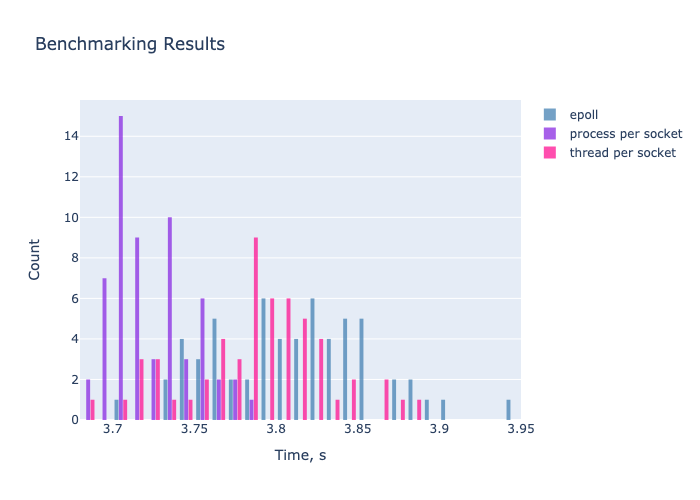
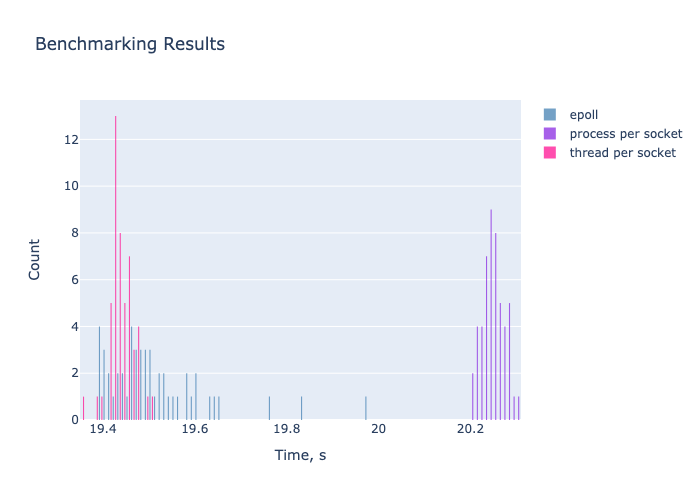
Updated plots.

diff --git a/results-processing/process_results.py b/results-processing/process_results.py
@@ -5,7 +5,7 @@ import numpy
 import plotly.express as px
 import plotly.graph_objects as go
 
-NUMBER_OF_PARAMETER_ROWS = 9
+NUMBER_OF_PARAMETER_ROWS = 11
 NUMBER_OF_WARNING_ROWS = 1
 NUMBER_Of_SKIP_ROWS = 5
 
@@ -59,7 +59,7 @@ if __name__ == "__main__":
         name='epoll',
         xbins=dict(
             start=0,
-            end=10,
+            end=30,
             size=0.01,
         ),
         autobinx=False,
@@ -71,7 +71,7 @@ if __name__ == "__main__":
         name='process per socket',
         xbins=dict(
             start=0,
-            end=10,
+            end=30,
             size=0.01,
         ),
         autobinx=False,
@@ -83,7 +83,7 @@ if __name__ == "__main__":
         name='thread per socket',
         xbins=dict(
             start=0,
-            end=10,
+            end=30,
             size=0.01,
         ),
         autobinx=False,
@@ -115,18 +115,21 @@ if __name__ == "__main__":
     # Displaying normality results
     print("NORMALITY TESTING\n" + "*" * 50)
     print("Epoll:")
+    print(f"Mean = {numpy.mean(epoll_data)}")
     if normal_epoll:
         print(f"Normal distribution, with p = {epoll_p}\n" + "*" * 50)
     else:
         print(f"Not a normal distribution, with p = {epoll_p}\n" + "*" * 50)
 
     print("Process per socket:")
+    print(f"Mean = {numpy.mean(process_data)}")
     if normal_process:
         print(f"Normal distribution, with p = {process_p}\n" + "*" * 50)
     else:
         print(f"Not a normal distribution, with p = {process_p}\n" + "*" * 50)
 
     print("Thread per socket:")
+    print(f"Mean = {numpy.mean(thread_data)}")
     if normal_thread:
         print(f"Normal distribution, with p = {thread_p}\n" + "*" * 50)
     else:
